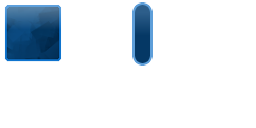
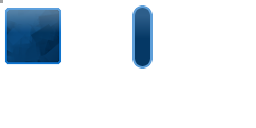
Shade background when window is showing

diff --git a/Main/src/net/ivang/axonix/main/screen/game/actor/NotificationWindow.java b/Main/src/net/ivang/axonix/main/screen/game/actor/NotificationWindow.java
@@ -18,6 +18,9 @@ package net.ivang.axonix.main.screen.game.actor;
 
 import com.badlogic.gdx.graphics.Color;
 import com.badlogic.gdx.graphics.g2d.BitmapFont;
+import com.badlogic.gdx.graphics.g2d.SpriteBatch;
+import com.badlogic.gdx.math.Vector2;
+import com.badlogic.gdx.scenes.scene2d.Stage;
 import com.badlogic.gdx.scenes.scene2d.ui.Label;
 import com.badlogic.gdx.scenes.scene2d.ui.Skin;
 import com.badlogic.gdx.scenes.scene2d.ui.Table;
@@ -112,8 +115,26 @@ public class NotificationWindow extends Table {
         setTotalScore(totalScore);
     }
 
+    protected void drawBackground (SpriteBatch batch, float parentAlpha) {
+        if (style.stageBackground != null) {
+            Color color = getColor();
+            batch.setColor(color.r, color.g, color.b, color.a * parentAlpha);
+            Stage stage = getStage();
+            Vector2 position = stageToLocalCoordinates(Vector2.tmp.set(0, 0));
+            Vector2 size = stageToLocalCoordinates(Vector2.tmp2.set(stage.getWidth(), stage.getHeight()));
+            style.stageBackground.draw(batch, getX() + position.x, getY() + position.y, getX() + size.x, getY() + size.y);
+        }
+
+        super.drawBackground(batch, parentAlpha);
+    }
+
+    //---------------------------------------------------------------------
+    // Nested Classes
+    //---------------------------------------------------------------------
+
     static public class Style {
         public Drawable background;
+        public Drawable stageBackground;
         public float hPad, vPad;
         public BitmapFont titleFont;
         public BitmapFont labelsValuesFont;
